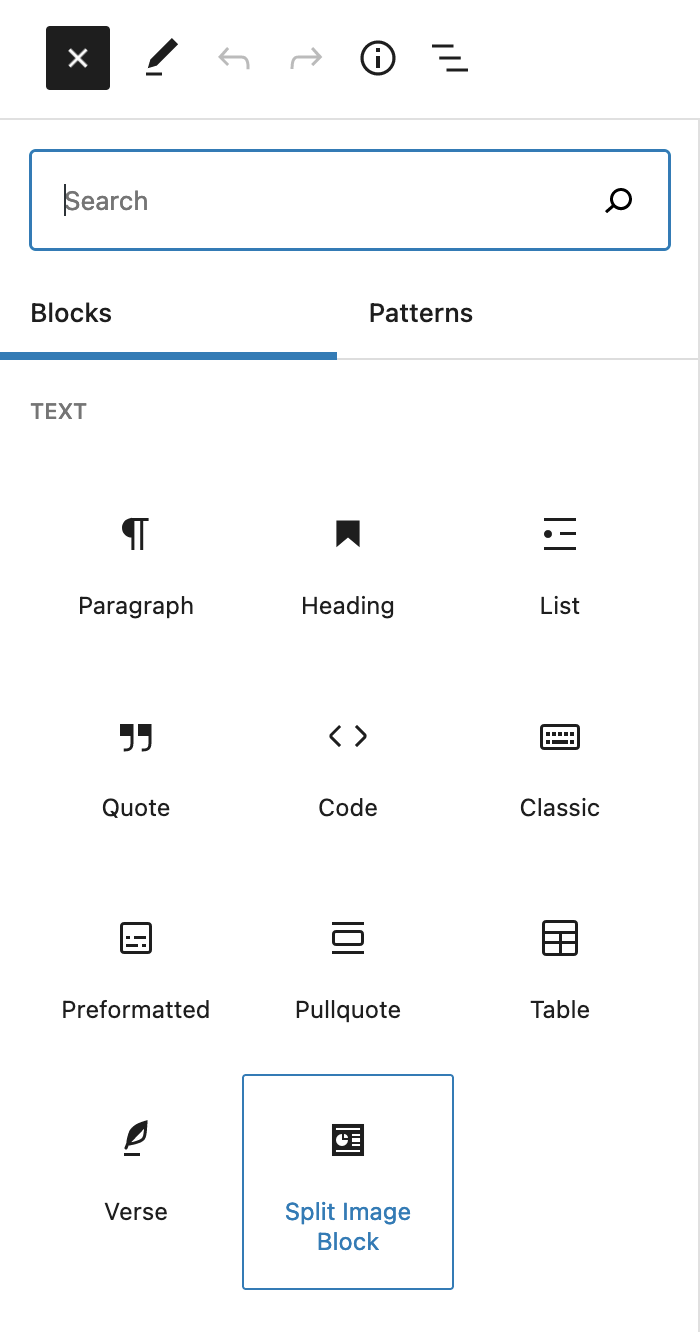
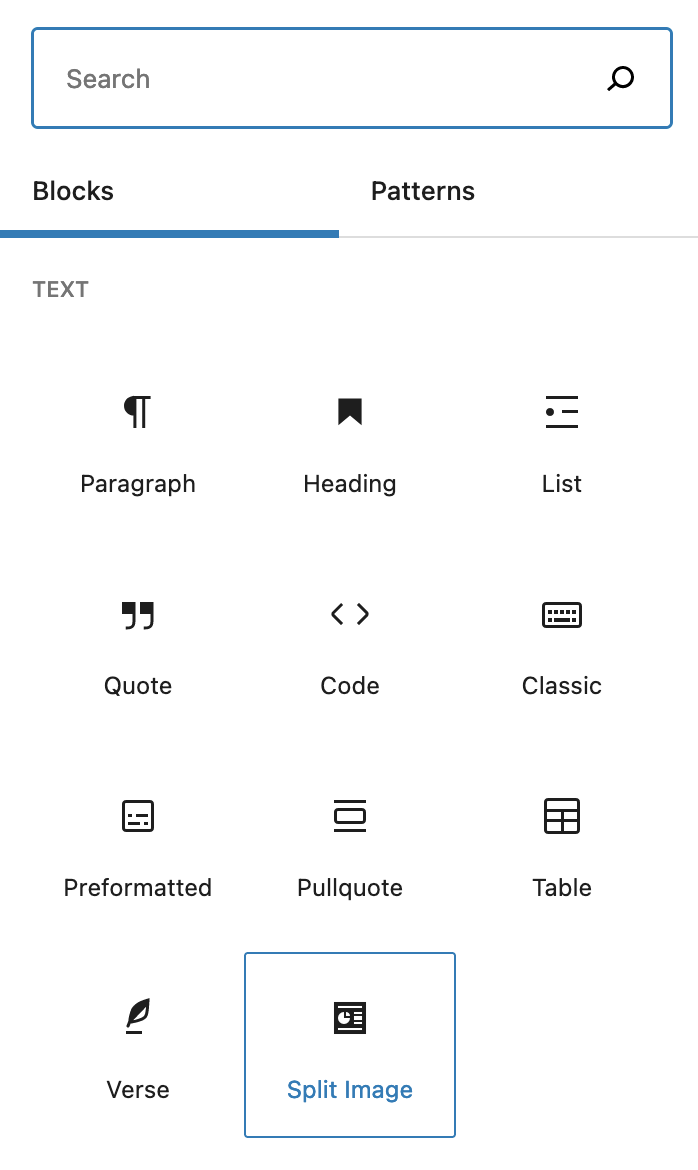
finish split image slides

diff --git a/ACF Blocks.md b/ACF Blocks.md
@@ -89,9 +89,10 @@ function my_acf_blocks_init() {
         // Register a split image block.
         acf_register_block_type(array(
             'name'            => 'jhl-split-image-block',
-            'title'           => __('Split Image Block'),
+            'title'           => __('Split Image'),
             'description'     => __('Block with an image on one side, content on the other'),
             'render_template' => 'template-parts/blocks/split-image/split-image.php',
+            'enqueue_style'   => get_stylesheet_directory_uri() . '/template-parts/blocks/split-image/split-image.css',
             'category'        => 'layout',
             'icon'            => 'analytics'
         ));
@@ -113,7 +114,9 @@ keywords — What users can type in to find your block. You can use up to three 
 
 # Block Registered
 
-At this point we can go see that the block is registered and starting to show up in the block editor.
+At this point we can go to the block editor and see that the block is registered correctly and shows up in the list of available blocks.
+
+However if we click on it, nothing happens because the block is not hooked up to ACF yet.
 
 ![right fit](assets/split-image-block-in-block-editor.png)
 
@@ -135,25 +138,127 @@ At this point we can go see that the block is registered and starting to show up
 
 # Creating the block in ACF
 
+Create the fields in ACF
+
+![inline](assets/acf-split-image-block-custom-fields.png)
+
+---
+
+# Creating the block in ACF
+
+Set the appearance to "Block" and the name of the block we specified earlier "Split Image Block"
+
+![inline](assets/acf-split-image-block-location.png)
+
 ---
 
 # Block template coding
+
+```php
+acf_register_block_type(array(
+    'name'            => 'jhl-split-image-block',
+    'title'           => __('Split Image'),
+    'description'     => __('Block with an image on one side, content on the other'),
+    'render_template' => 'template-parts/blocks/split-image/split-image.php',
+    'enqueue_style'   => get_stylesheet_directory_uri() . '/template-parts/blocks/split-image/split-image.css',
+    'category'        => 'layout',
+    'icon'            => 'analytics'
+));
+```
+
+---
+
+# Block template coding
+
+[.code-highlight: 5]
+
+```php
+acf_register_block_type(array(
+    'name'            => 'jhl-split-image-block',
+    'title'           => __('Split Image'),
+    'description'     => __('Block with an image on one side, content on the other'),
+    'render_template' => 'template-parts/blocks/split-image/split-image.php',
+    'enqueue_style'   => get_stylesheet_directory_uri() . '/template-parts/blocks/split-image/split-image.css',
+    'category'        => 'layout',
+    'icon'            => 'analytics'
+));
+```
+
+---
+
+# Block template coding
+
+Create the folder structure in your child theme
+
+`template-parts/blocks/split-image/`
+
+Create a file called `split-image.php`
+
+![right](assets/acf-block-template-file-structure.png)
+
+---
+
+# Block template coding
+
+```html
+<?php
+$acf_fields = get_fields();
+$align_class = $block['align'] ? 'align' . $block['align'] : '';
+?>
+<div class="split-image-wrapper <?php echo $align_class; ?>">
+  <div class="split-image-text">
+    <div class="split-image-title"><?php echo $acf_fields['title']; ?></div>
+    <div class="split-image-subtitle"><?php echo $acf_fields['subtitle']; ?></div>
+    <div class="split-image-content"><?php echo $acf_fields['content']; ?></div>
+    <div class="split-image-button">
+      <a href="<?php echo $acf_fields['button-link']; ?>"><?php echo $acf_fields['button-text']; ?></a>
+    </div>
+  </div>
+  <div class="split-image-image" style="background-image:url(<?php echo $acf_fields['image']; ?>);"></div>
+</div>
+```
+
+^ Show actual code with if statements and better formatting
 
 ---
 
 # Using the block in the editor
 
+![inline](assets/acf-split-image-in-editor.png)
+
 ---
 
-# Final result
+# Using the block in the editor
+
+![inline](assets/acf-split-image-in-editor-switch.png)
+
+---
+
+# Using the block in the editor
+
+![inline](assets/acf-split-image-preview.png)
+
+^ Demo it in the editor
+
+---
+
+# Final result in editor
+
+![inline](assets/acf-slplit-image-backend-final.png)
+
+---
+
+# Final result on site
+
+![inline](assets/acf-slplit-image-frontend-final.png)
 
 ---
 
 # References
 
-- https://www.advancedcustomfields.com/resources/blocks/
-- https://torquemag.io/2020/01/create-gutenberg-block-with-acf/
-- https://whiteleydesigns.com/acf-gutenberg-block-examples/
+- [https://www.advancedcustomfields.com/resources/blocks/]()
+- [https://torquemag.io/2020/01/create-gutenberg-block-with-acf/]()
+- [https://whiteleydesigns.com/acf-gutenberg-block-examples/]()
 
 ---
 
